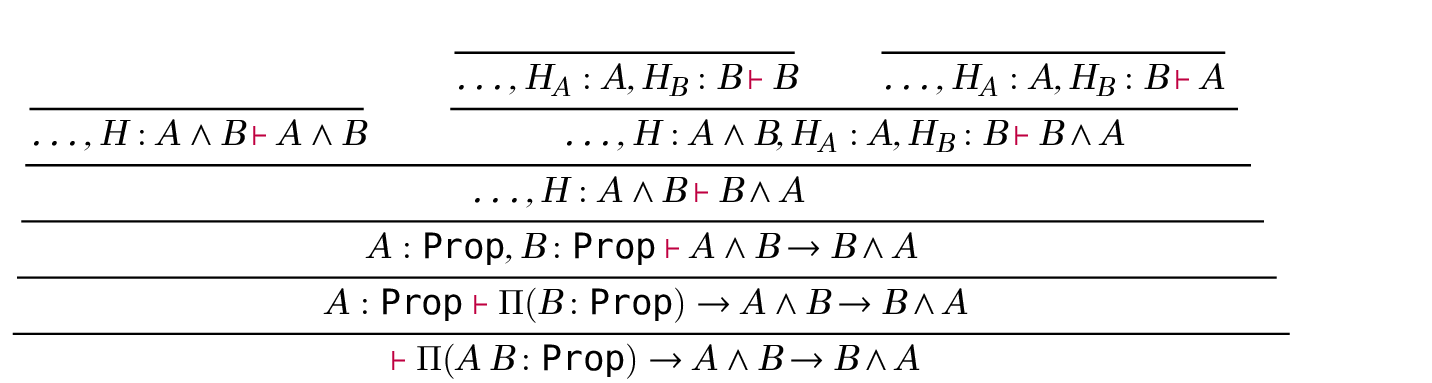
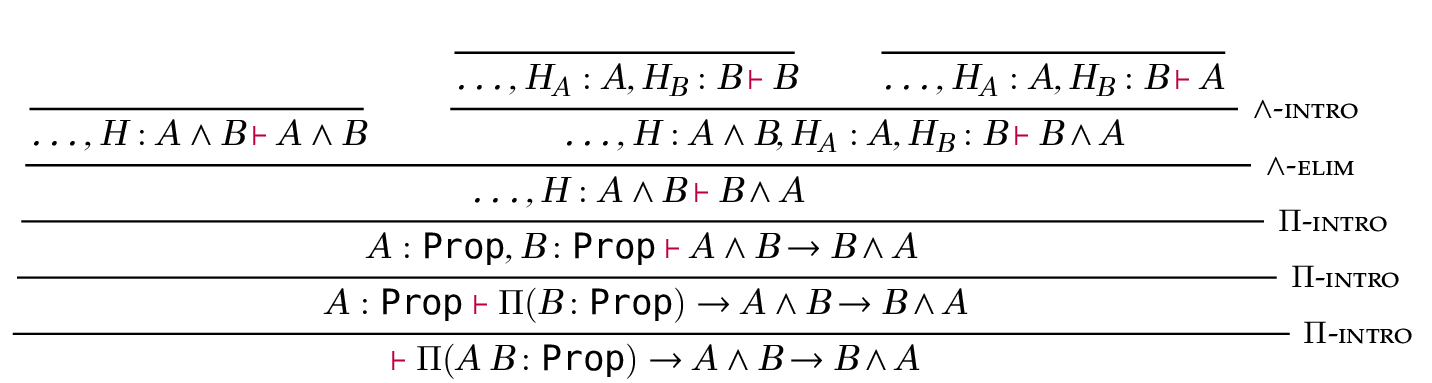
damn intro

diff --git a/introduction.tex b/introduction.tex
@@ -6,4 +6,98 @@ flourished from an academic object of interest to a trending topic in both
 academia and industry.  Concepts that used to be mostly relevant in the context
 of functional programming languages, for instance, \emph{anonymous functions},
 \emph{currying}, \emph{monads}, or \emph{dependent types}, are percolating into
-many functional languages as well as mainstream imperative languages.
+many functional languages, as well as mainstream imperative languages.
+
+Unfortunately, these concepts tend to have a higher level of abstraction than
+their imperative counterparts, and are often dismissed by programmers as
+esoteric, until their benefits are made clear.  This has happened repeatedly
+over the history of programming languages: structured programming seemed
+restrictive until its maintenance benefits became clear, garbage collection
+seemed non-viable until their implementation became fast enough, monads
+were just a mathematical concept until their relationship with effectful
+computations was made crisp.
+
+Proof assistants, that is, software tools that allow programmers to reason
+formally about their code, are currently in a shifting period.  While they have
+existed for several decades, their recognition as a valuable tool is still in
+progress.  There are multiple explanations for this.  First, the underlying
+meta-theories are still under active research, and as a result, the software
+implementations are often not as polished as their mainstream programming
+counterparts.  Second, learning to use these proof assistants is a hard task,
+often requiring extensive research and academic readings.  Compared to
+mainstream programming languages, tutorials for proof assistants are both
+scarce and terse.  Finally, there are but a few examples of successful,
+broadly-used software built within proof assistants.
+
+On this subject, a few pioneer projects have helped make the case for using
+proof assistants.  The CompCert C compiler~\mycite{leroy2009formally}
+demonstrated that a verified compiler for a ``real-world'' programming language
+was not only feasible, but was independently proven to be more robust than its
+competitors by~\mycite{yang2011finding} and~\mycite{le2014compiler}.  The seL4
+micro-kernel~\mycite{klein2009sel4} also demonstrated that verified software can
+build such low-level artifacts as the kernel of an operating system.  On a more
+theoretical side, the \Coq{} proof assistant was also used to build a mechanized
+proof of the four-color theorem~\mycite{gonthier2008formal}, as well as the
+odd-order theorem~\mycite{gonthier2013machine}.  These proof efforts not only
+helped make software verification more broadly known and respected, they also
+provided several libraries and design principles for software verification.  The
+Mathematical Components library~\mycite{gonthier2013engineering}, for instance,
+was built alongside the two theorems previously mentioned, and offers a vast
+array of reusable mathematical objects, as well as a methodology for developing
+large-scale proofs using small-scale reflection, packaged in a library called
+\define{SSReflect}.
+
+For proof assistants to become popular, we believe it will take efforts on
+multiple fronts.  In order to be approachable, we need better course material,
+accessible to programmers outside of academic settings.  We also need tools that
+are more suitable to beginners, with softer edges, so to speak.  There is good
+progress on this front.  The Software Foundations~\mycite{pierce2010software}
+collection of books has been incrementally designed over the past decade, and is
+regarded as one of the best introductions to the \Coq{} proof assistant and
+mechanized theorem proving in general.  Other languages are also providing their
+own learning material, for instance, Programming Language
+Foundations~\footnote{\url{https://plfa.github.io/}} for \Agda{}, or the
+\Idris{}
+tutorial~\footnote{\url{http://docs.idris-lang.org/en/latest/tutorial/}}.
+
+The design of proof assistants, their libraries, and the programming languages
+they are based upon, will also need refining.  Proof engineering is still a
+fairly new endeavor, and will require years of effort before proper abstraction
+mechanisms, design principles, and tools are designed, evaluated, and adopted.
+For instance, there are two separate mechanisms for ad hoc overloading in
+\Coq{}, with each their strength and weaknesses, namely \define{type classes}
+and \define{canonical structures}.  The former is not very robust, often
+resulting in undecipherable error messages, while the latter is more powerful,
+but requires abusing other features of the proof assistant to program it.
+
+In this dissertation, we want to explore two aspects of the interaction of users
+of proof assistants.  The first aspect of interest is the barrier to entry
+previously mentioned.  The author noticed several rough edges in the process of
+learning to use a proof assistant, both through their own learning experience,
+and through teaching other beginners to use the \Coq{} proof assistant.  These
+problems range from conceptual ones, like the ability to make proper mental
+models for what happens ``behind the scenes'' when one interacts with a proof
+assistant, to more practical issues, like being able to find the relevant
+theorems, lemmas, tactics, etc.
+
+The second aspect we are interested in caters to a broader audience.  Beginners
+often lack the foresight to get their data type definitions to be well tailored
+for a problem on the first try.  Experts often need to refactor, add or remove
+features, to an existing program.  In both cases, the user will want to go back
+to existing definitions, update them, and re-execute the existing proofs to get
+back to their problem at hand.  Unfortunately, in most proof assistants, and
+programming languages in general, an update in some definition will have
+repercussions throughout a code base, that will require the user's attention to
+fix.  While some of these changes indeed require scrutinizing, either because
+new values or new proofs need to be created from scratch, often times, a decent
+fraction of the changes necessary are systematic, deterministic consequences of
+the changes made upstream.
+
+This slows down beginners in their learning process, especially since they will
+lack the knowledge necessary to make their code and proof robust to such
+changes.  It also occasionally slows down experts, who need to update existing,
+working proofs, if only to rename variables, reorder arguments to a function or
+constructor, etc.  We are interested in the possibility of eliminating the
+tedium out of this process, accelerating users by automatically figuring out the
+systematic changes, and leaving them only the task of filling the blanks that
+require creativity or expertise.

diff --git a/slides/derivation.tex b/slides/derivation.tex
@@ -7,72 +7,73 @@
 
 \begin{figure*}[htp]
 
-  \scalebox{0.84}{
-    \begin{minipage}[t]{\textwidth}
+\scalebox{0.70}{
 
-      \begin{mathpar}
+  \begin{minipage}{1.3\textwidth}
+
+    \begin{mathpar}
+      {
+        \inferrule*[Right=$\Pi$-intro]
         {
-          \inferrule*
+          \inferrule*[Right=$\Pi$-intro]
           {
-            \inferrule*
+            \inferrule*[Right=$\Pi$-intro]
             {
-              \inferrule*
+              \inferrule*[Right=$\land$-elim]
               {
-                \inferrule*
                 {
+                  \inferrule*
+                  { }
                   {
-                    \inferrule*
-                    { }
-                    {
-                      \ldots , H : A \land B \Entails A \land B
-                    }
-                  }
-                  \and
-                  {
-                    \inferrule*
-                    {
-                      {
-                        \inferrule*
-                        { }
-                        {
-                          \ldots , H_A : A , H_B : B \Entails B
-                        }
-                      }
-                      \and
-                      {
-                        \inferrule*
-                        { }
-                        {
-                          \ldots , H_A : A , H_B : B \Entails A
-                        }
-                      }
-                    }
-                    {
-                      \ldots , H : A \land B , H_A : A , H_B : B \Entails B \land A
-                    }
+                    \ldots , H : A \land B \Entails \coqinline{H} \HasType A \land B
                   }
                 }
+                \and
                 {
-                  \ldots , H : A \land B \Entails B \land A
+                  \inferrule*[Right=$\land$-intro]
+                  {
+                    {
+                      \inferrule*
+                      { }
+                      {
+                        \ldots , H_A : A , H_B : B \Entails \coqinline{HA} \HasType A
+                      }
+                    }
+                    \and
+                    {
+                      \inferrule*
+                      { }
+                      {
+                        \ldots , H_A : A , H_B : B \Entails \coqinline{HB} \HasType B
+                      }
+                    }
+                  }
+                  {
+                    \ldots , H : A \land B , H_A : A , H_B : B \Entails \coqinline{conj HB HA} \HasType A \land B
+                  }
                 }
               }
               {
-                A : \texttt{Prop}, B : \texttt{Prop} \Entails A \land B \rightarrow B \land A
+                \ldots , H : A \land B \Entails \coqinline{match H with conj HA HB => conj HB HA end} \HasType B \land A
               }
             }
             {
-              A : \texttt{Prop} \Entails \Pi (B : \texttt{Prop}) \rightarrow A \land B \rightarrow B \land A
+              A : \texttt{Prop}, B : \texttt{Prop} \Entails \coqinline{λ H → match ... end} \HasType A \land B \rightarrow B \land A
             }
           }
           {
-            \Entails \Pi (A\ B : \texttt{Prop}) \rightarrow A \land B \rightarrow B \land A
+            A : \texttt{Prop} \Entails \coqinline{λ B H → match ... end} \HasType \Pi (B : \texttt{Prop}) \rightarrow A \land B \rightarrow B \land A
           }
         }
-      \end{mathpar}
+        {
+          \Entails \coqinline{λ A B H → match ... end} \HasType \Pi (A\ B : \texttt{Prop}) \rightarrow A \land B \rightarrow B \land A
+        }
+      }
+    \end{mathpar}
 
-    \end{minipage}
+  \end{minipage}
 
-  }
+}
 
 \end{figure*}
 

diff --git a/macros.tex b/macros.tex
@@ -26,12 +26,14 @@
 \newcommand{\Ltac}{\Language{Ltac}}
 \newcommand{\Vernacular}{\Language{Vernacular}}
 
+\newcommand{\Agda}{\Language{Agda}}
 \newcommand{\Chick}{\Language{Chick}}
 \newcommand{\Coop}{\Language{Coop}}
 \newcommand{\Coq}{\Language{Coq}}
 \newcommand{\CoqIDE}{\Tool{CoqIDE}}
 \newcommand{\Erlang}{\Language{Erlang}}
 \newcommand{\Haskell}{\Language{Haskell}}
+\newcommand{\Idris}{\Language{Idris}}
 \newcommand{\JavaScript}{\Language{JavaScript}}
 \newcommand{\OCaml}{\Language{OCaml}}
 \newcommand{\PeaCoq}{\Language{PeaCoq}}
